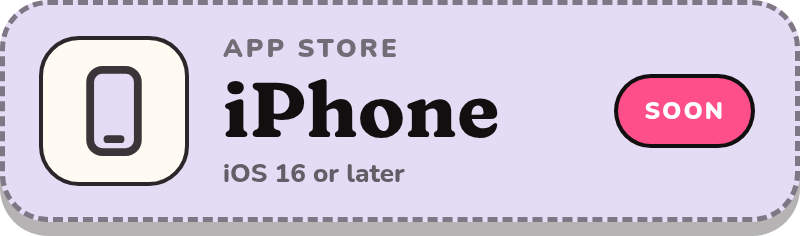
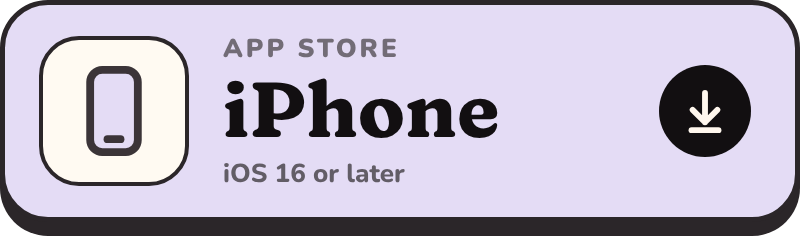
iPhone App Store'da: indirme düğmesi App Store'a gidiyor
- iPhone düğmesindeki YAKINDA kalktı, App Store bağlantısı (TR ve EN)
- İlk açılış uyarısı notu Android, Mac ve Windows için; iPhone App Store'dan uyarısız
- Özellikler görseli 161 tarif

diff --git a/README.md b/README.md
@@ -10,7 +10,7 @@ Tarif ezberlemek, bar ekipmanı ya da hesap açmak gerekmez: dolabını işaretl
 ## İndir
 
 <p align="center">
-  <a href="https://serefe.app/indir/"><img src=".github/img/indir-ios-tr.png" width="380" alt="iPhone: App Store'da yakında"></a>
+  <a href="https://apps.apple.com/app/id6834797923"><img src=".github/img/indir-ios-tr.png" width="380" alt="iPhone: App Store'dan indir"></a>
   <a href="https://github.com/alper4n/serefe-app/releases/latest/download/Serefe-Android.apk"><img src=".github/img/indir-android-tr.png" width="380" alt="Android için indir (APK)"></a>
   <br>
   <a href="https://github.com/alper4n/serefe-app/releases/latest/download/Serefe-macOS.dmg"><img src=".github/img/indir-macos-tr.png" width="380" alt="Mac için indir (DMG)"></a>
@@ -28,7 +28,7 @@ Tarif ezberlemek, bar ekipmanı ya da hesap açmak gerekmez: dolabını işaretl
 </p>
 
 <p align="center">
-  <img src=".github/img/ozellikler-tr.png" width="900" alt="İçinde neler var: Dolabım, 159 tarif, Parti Modu, adım adım mod, vegan seçenekler ve ikameler, tarifi resim olarak paylaşma">
+  <img src=".github/img/ozellikler-tr.png" width="900" alt="İçinde neler var: Dolabım, 161 tarif, Parti Modu, adım adım mod, vegan seçenekler ve ikameler, tarifi resim olarak paylaşma">
 </p>
 
 ### Bilgisayarda da
@@ -42,7 +42,7 @@ Büyük ekranda ev partisi için birebir: misafirler gelince Parti Modu'nu aç, 
 
 <br>
 
-Şerefe şimdilik mağaza dışından geliyor, o yüzden sistem ilk seferde bir kez sorar:
+Android, Mac ve Windows sürümleri şimdilik mağaza dışından geliyor, o yüzden sistem ilk seferde bir kez sorar:
 
 - **Android:** Dosyayı aç, "Bu kaynaktan yüklemeye izin ver"i aç. Play Koruma sorarsa
   **Ayrıntılar → Yine de yükle**. Yeni sürüm eskisinin üstüne kurulur, verilerin silinmez;
@@ -51,7 +51,7 @@ Büyük ekranda ev partisi için birebir: misafirler gelince Parti Modu'nu aç, 
   Güvenlik → Yine de Aç**. "Hasarlı ve açılamıyor" derse Terminal'de bir kez şunu çalıştır:
   `xattr -cr /Applications/Şerefe.app`
 - **Windows:** "Windows bilgisayarınızı korudu" çıkarsa **Ek bilgi → Yine de çalıştır**.
-- **iPhone:** App Store'a gelince oradan kurulacak.
+- **iPhone:** [App Store](https://apps.apple.com/app/id6834797923)'dan kurulur, uyarı çıkmaz; güncellemeler kendiliğinden gelir.
 
 </details>
 
@@ -61,7 +61,7 @@ Büyük ekranda ev partisi için birebir: misafirler gelince Parti Modu'nu aç, 
 <br>
 
 Sadece senin cihazında. Şerefe hesap istemez, reklam göstermez, seni takip etmez; favorilerin,
-dolabın ve notların kimseye gitmez. İnternete yalnızca yeni sürüm var mı diye bakmak için çıkar.
+dolabın ve notların kimseye gitmez. İnternete yalnızca yeni sürüm var mı diye bakmak için çıkar (iPhone'da onu da App Store yapar).
 Ayrıntılar: [serefe.app/gizlilik](https://serefe.app/gizlilik/)
 
 </details>

diff --git a/.github/english.md b/.github/english.md
@@ -12,7 +12,7 @@ No memorising recipes, no bar kit, no sign-up: tick what's in your cabinet, pick
 ## Download
 
 <p align="center">
-  <a href="https://serefe.app/indir/"><img src="img/indir-ios-en.png" width="380" alt="iPhone: coming soon to the App Store"></a>
+  <a href="https://apps.apple.com/app/id6834797923"><img src="img/indir-ios-en.png" width="380" alt="iPhone: download on the App Store"></a>
   <a href="https://github.com/alper4n/serefe-app/releases/latest/download/Serefe-Android.apk"><img src="img/indir-android-en.png" width="380" alt="Download for Android (APK)"></a>
   <br>
   <a href="https://github.com/alper4n/serefe-app/releases/latest/download/Serefe-macOS.dmg"><img src="img/indir-macos-en.png" width="380" alt="Download for Mac (DMG)"></a>
@@ -30,7 +30,7 @@ No memorising recipes, no bar kit, no sign-up: tick what's in your cabinet, pick
 </p>
 
 <p align="center">
-  <img src="img/ozellikler-en.png" width="900" alt="What's inside: My Bar, 159 recipes, Party Mode, step-by-step mode, vegan options and swaps, share a recipe as an image">
+  <img src="img/ozellikler-en.png" width="900" alt="What's inside: My Bar, 161 recipes, Party Mode, step-by-step mode, vegan options and swaps, share a recipe as an image">
 </p>
 
 ### On your computer too
@@ -44,7 +44,7 @@ Made for house parties on a big screen: open Party Mode when friends arrive and 
 
 <br>
 
-Şerefe doesn't come from an app store yet, so your system asks once:
+The Android, Mac and Windows versions don't come from an app store yet, so your system asks once:
 
 - **Android:** Open the file and allow installs from this source. If Play Protect asks, choose
   **More details → Install anyway**. New versions install over the old one and keep your data;
@@ -53,7 +53,7 @@ Made for house parties on a big screen: open Party Mode when friends arrive and 
   Open Anyway**. If macOS says the app is damaged, run this once in Terminal:
   `xattr -cr /Applications/Şerefe.app`
 - **Windows:** On "Windows protected your PC" choose **More info → Run anyway**.
-- **iPhone:** it will install from the App Store once it's there.
+- **iPhone:** install it from the [App Store](https://apps.apple.com/app/id6834797923); no warning, and updates arrive automatically.
 
 </details>
 
@@ -63,7 +63,7 @@ Made for house parties on a big screen: open Party Mode when friends arrive and 
 <br>
 
 Only on your device. No account, no ads, no tracking; your favourites, bar and notes go nowhere.
-Şerefe only goes online to check for a new version. Details: [serefe.app/gizlilik](https://serefe.app/gizlilik/)
+Şerefe only goes online to check for a new version (on iPhone, the App Store does that). Details: [serefe.app/gizlilik](https://serefe.app/gizlilik/)
 
 </details>
 
